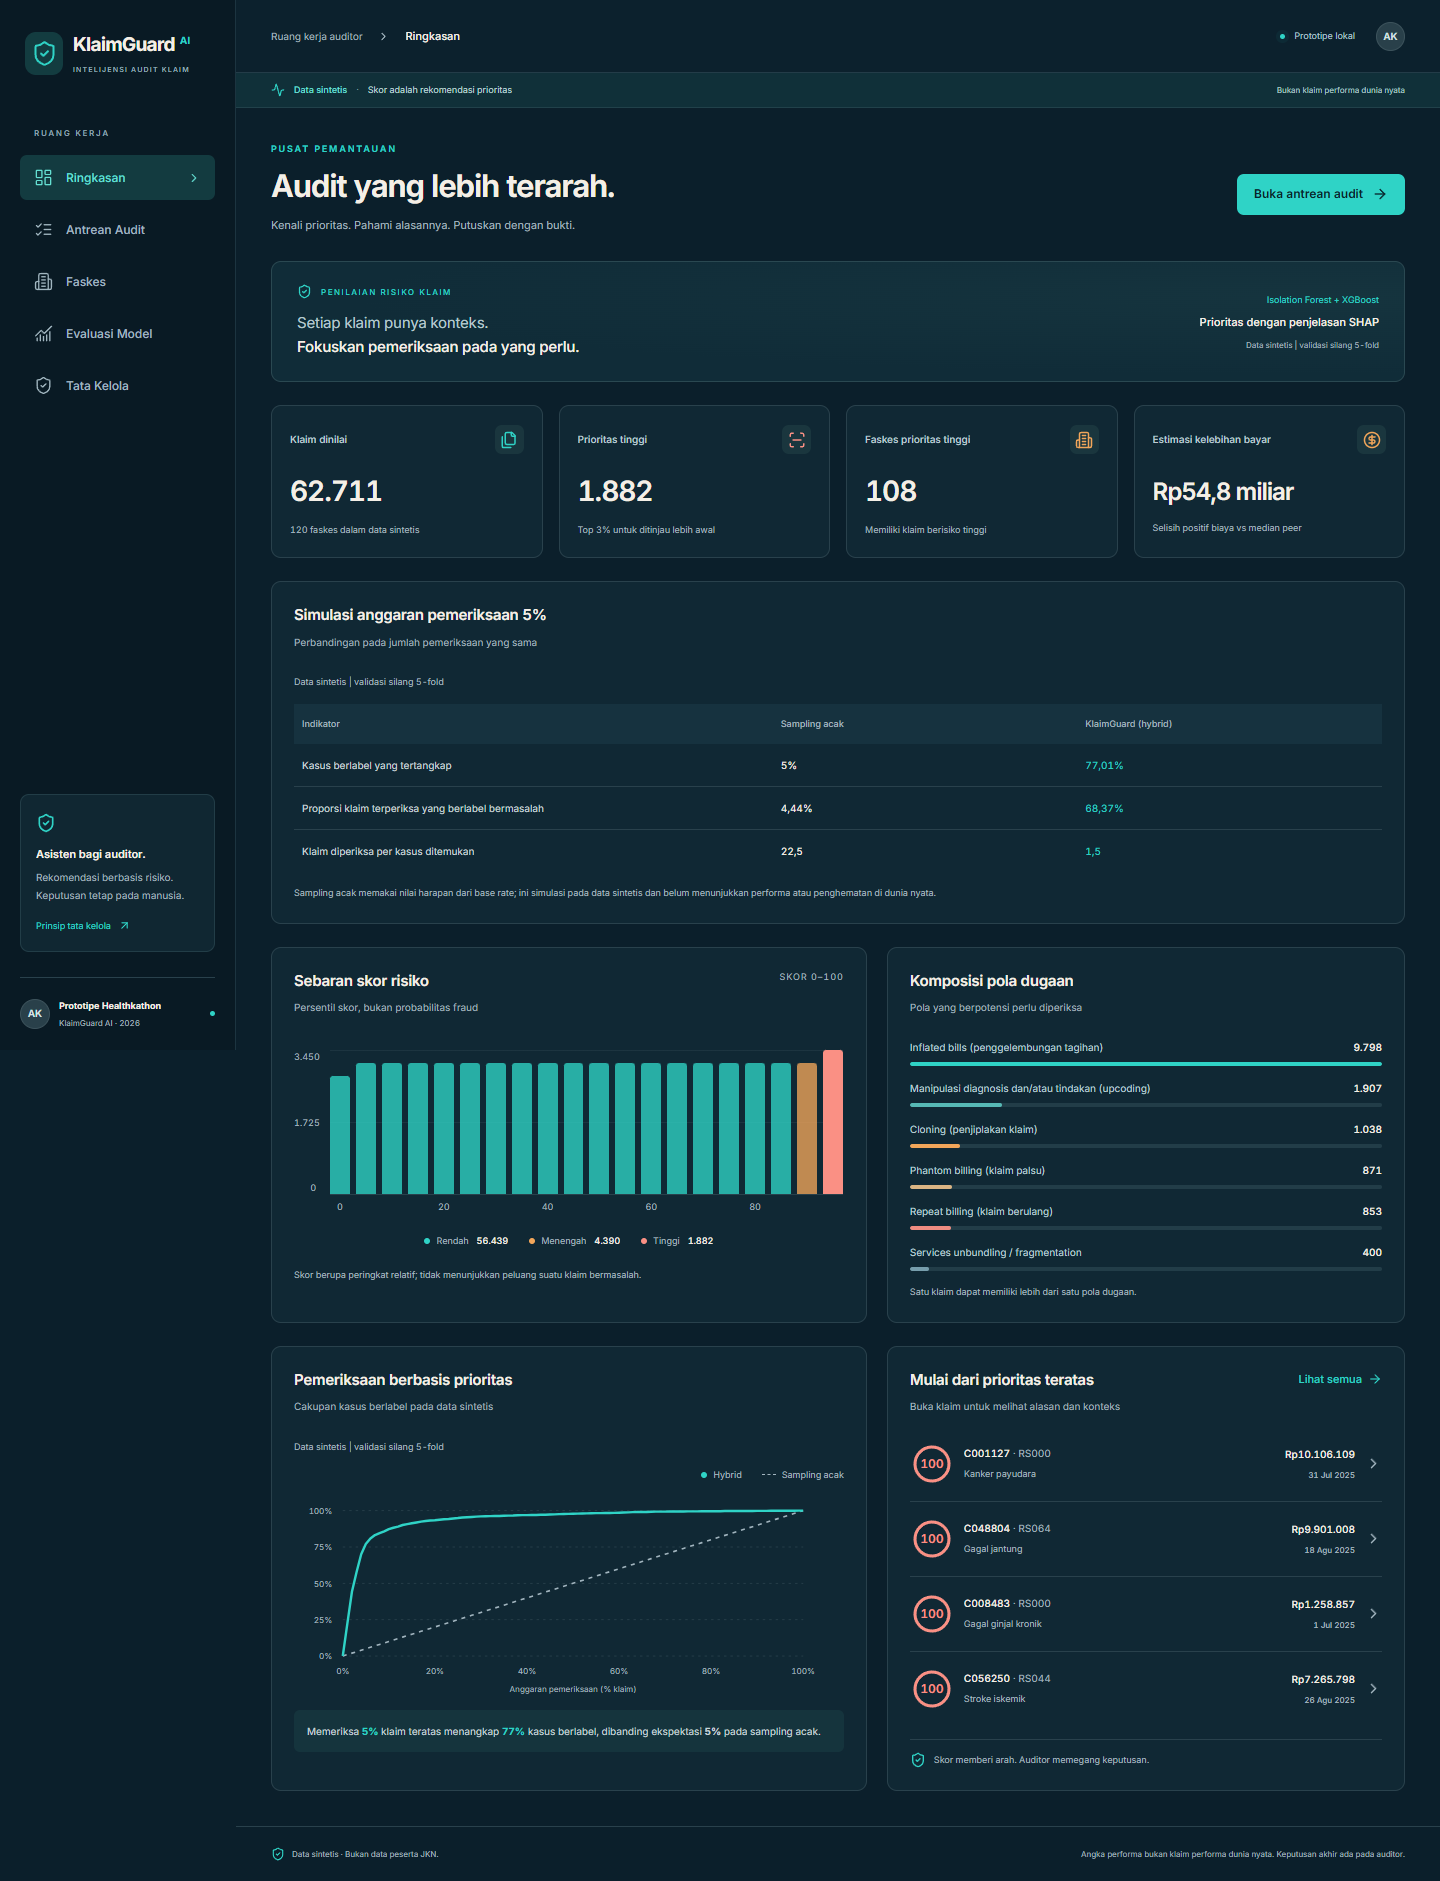
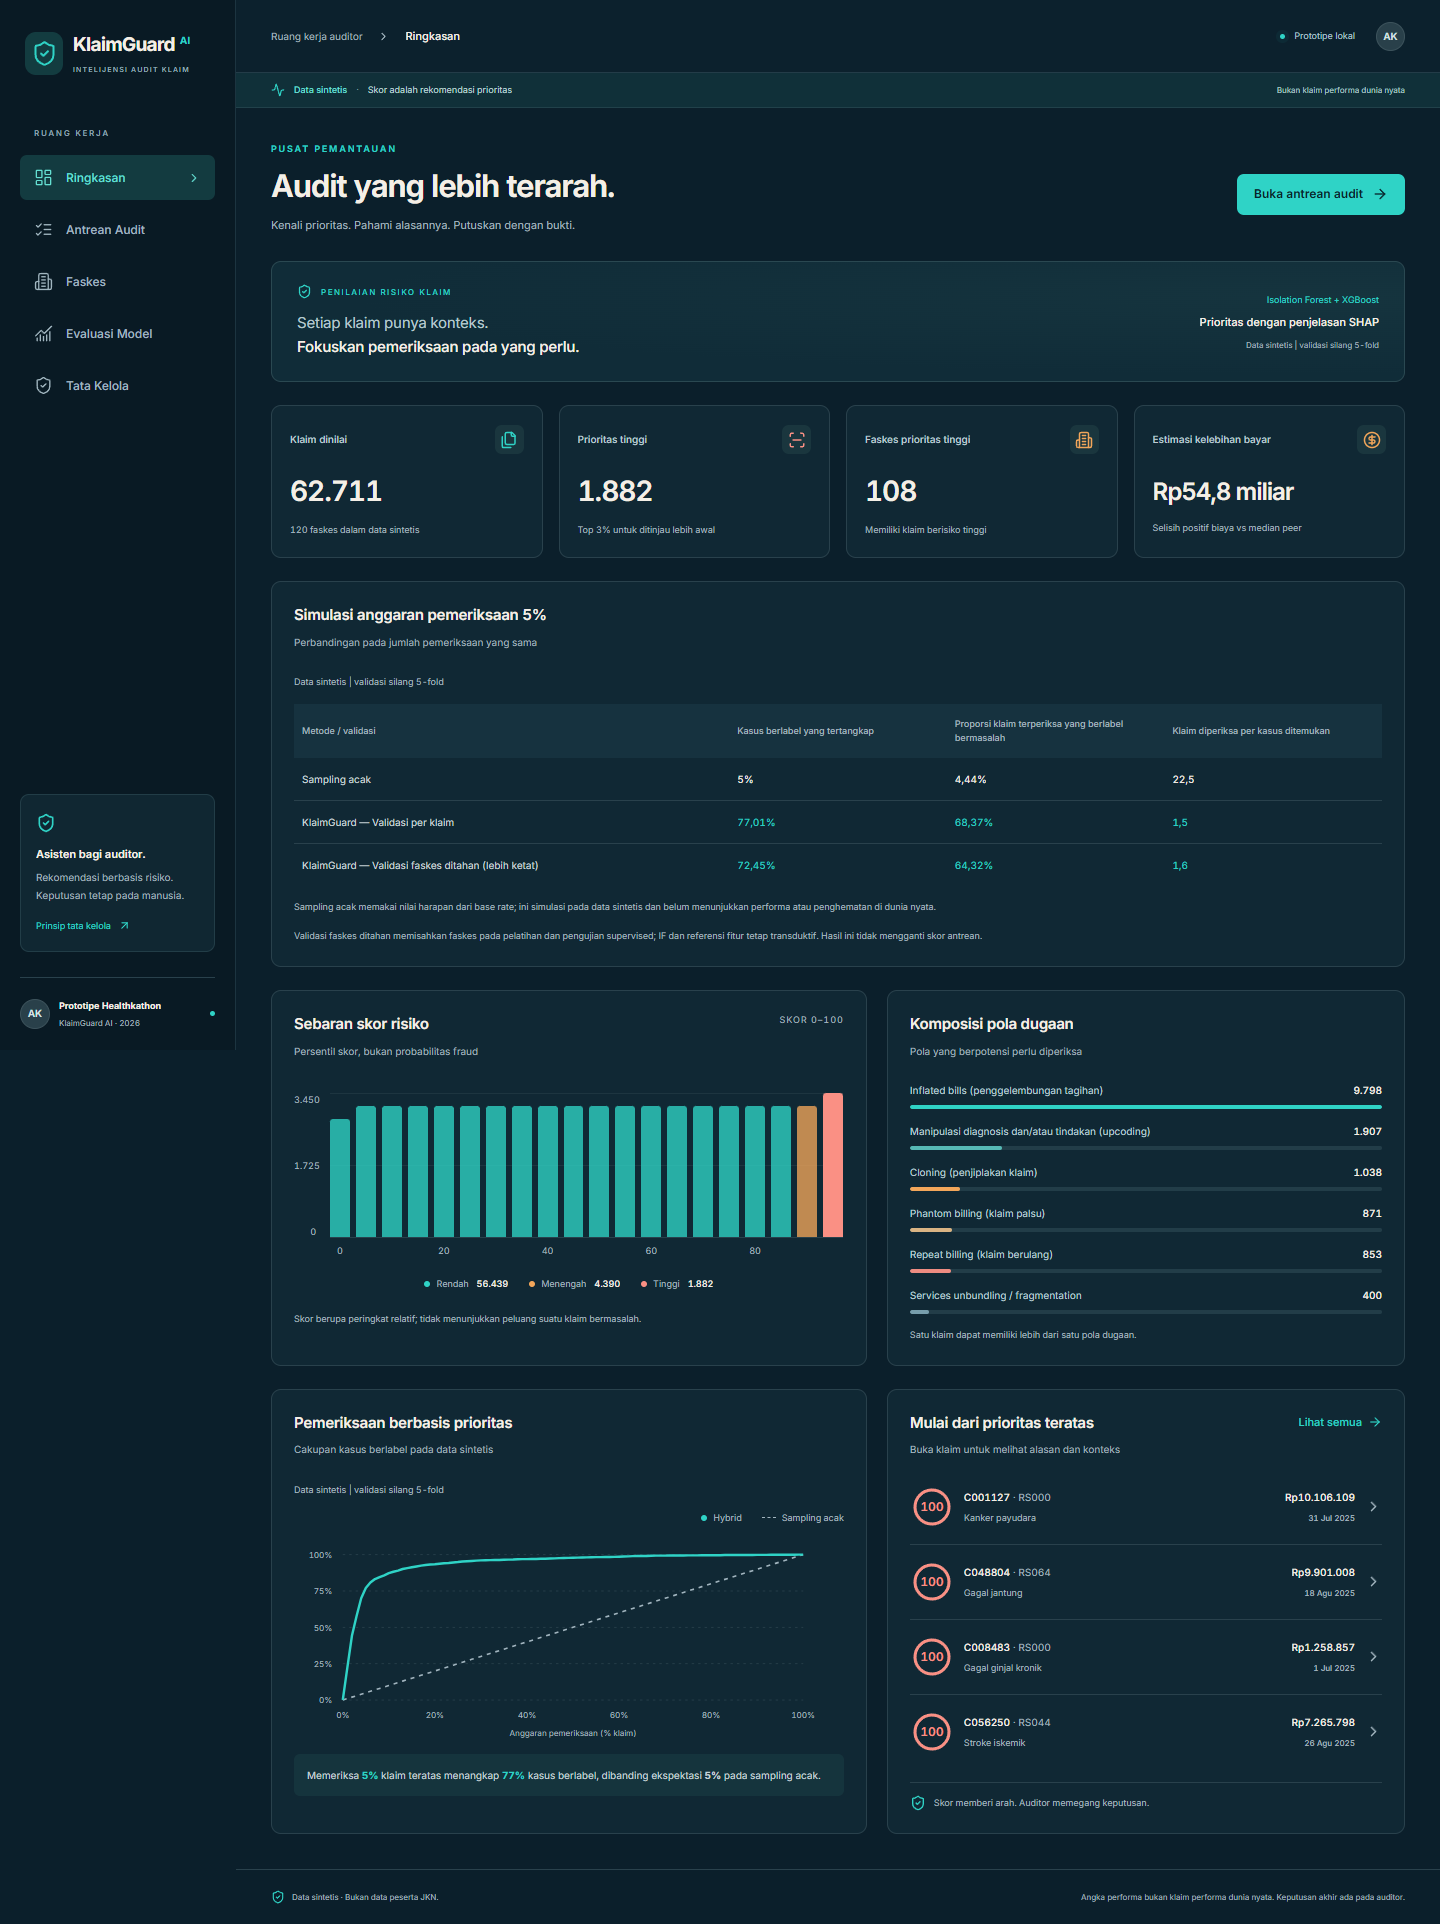
feat(web): compare claim and held-facility validation in budget simulation

diff --git a/web/src/styles.css b/web/src/styles.css
@@ -13,3 +13,4 @@
 @media(max-width:760px){.sidebar{transform:translateX(-100%);width:252px;transition:transform .2s;padding:28px 20px 0}.sidebar.open{transform:translateX(0)}.sidebar .brand{font-size:19px;margin-bottom:42px}.brand-symbol{width:38px}.brand-ai{font-size:10px}.brand small{font-size:7px}.nav-item{font-size:12px;padding:14px}.mobile-close{display:flex;position:absolute;right:8px;top:7px;color:var(--muted)}.app-main{margin-left:0}.nav-backdrop{position:fixed;inset:0;background:#010c17c9;z-index:29;border:0}.mobile-menu{display:flex;margin-left:-8px}.topbar{height:64px;padding:0 21px}.breadcrumb{gap:9px;font-size:9px}.breadcrumb>b{font-size:10px}.topbar-status{font-size:8px;gap:7px}.topbar-avatar{width:25px;height:25px;margin-left:2px}.evaluation-pill{font-size:0;padding:5px;margin-right:0}.evaluation-pill svg{width:15px;height:15px}.data-banner{padding:10px 21px;font-size:8px}.data-banner>span{gap:7px}.data-banner svg{width:12px}.page-heading h1{font-size:28px}.card-heading h2{font-size:14px}main{padding:27px 21px}.page-heading{display:block;margin-bottom:24px}.page-heading p{font-size:11px;max-width:450px;line-height:1.8;margin-top:12px}.page-heading>.button{margin-top:20px;padding:11px 14px;font-size:11px}.eyebrow{font-size:8px;letter-spacing:1.5px}.overview-intro{padding:21px;min-height:150px}.overview-intro p{font-size:16px}.metrics-grid{gap:12px}.metric{padding:17px}.metric-value{font-size:29px}.metric:last-child .metric-value{font-size:24px;margin-top:20px}.metric-label{font-size:10px;align-items:flex-start;line-height:1.6}.metric-icon{width:25px;height:25px;flex-shrink:0}.metric-icon svg{width:15px}.metric p{font-size:9px;line-height:1.8}.card{padding:20px}.queue-card{padding:0}.facility-ranking{padding-left:0;padding-right:0}main>*+*{margin-top:18px}.overview-charts,.overview-bottom{gap:18px}.overview-charts>.card,.overview-bottom>.card{margin:0}.card-heading{margin-bottom:22px}.histogram{height:180px;gap:11px}.hist-columns{gap:5px}.tier-summary{font-size:8px;gap:14px}.pattern-bars{gap:16px}.pattern-bar>div:first-child{font-size:10px}.chart-caption{font-size:9px}.lift-insight{font-size:10px}.top-claim b{font-size:10px}.top-claim>div>span{font-size:9px}.top-claim-cost{font-size:10px}.top-claim{padding:17px 0;gap:9px}.top-claim-cost small{font-size:8px}.top-claim .score{width:40px;height:40px}.top-claim .score b{font-size:11px}.human-note{font-size:9px}.filter-grid{grid-template-columns:repeat(2,minmax(0,1fr));gap:14px 12px}.filter-top h2{font-size:12px}.filters{padding:19px}.filters .text-link{font-size:9px}input,select{font-size:11px;min-height:40px}input[type=date]{font-size:10px}.queue-heading{padding:20px 18px}.queue-heading h2{font-size:13px}.queue-heading p{font-size:9px}.queue-heading .mini-label{font-size:7px}.queue-scroll{height:530px;max-height:70vh}.queue-footer{font-size:8px;padding:16px 18px}.facility-profile{padding:9px 2px}.facility-rank-header,.facility-row{padding-left:18px;padding-right:18px}.facility-id small{font-size:8px}.facility-metrics .metric:last-child .metric-value{font-size:22px!important}.evaluation-toggle{padding:17px 15px}.evaluation-toggle h2{font-size:10px}.evaluation-toggle p{font-size:9px}.evaluation-toggle>div{gap:10px}.evaluation-toggle>div>svg{width:19px}.evaluation-toggle{gap:10px}.model-cards{grid-template-columns:1fr;gap:12px}.model-card-head{flex-direction:row;align-items:center;font-size:12px}.model-cards .model-value{font-size:34px}.model-cards .model-value>span{display:inline-block;margin-left:10px;font-size:9px}.model-card .badge{font-size:8px}.model-card p{font-size:11px}.metrics-table{font-size:10px;min-width:610px}.metrics-table th,.metrics-table td{padding:14px 12px}.confusion-matrix{gap:10px}.confusion-matrix>div{padding:15px}.confusion-matrix span{font-size:9px;line-height:1.8}.confusion-matrix b{font-size:25px}.confusion-matrix small{font-size:8px}.notice{padding:13px;font-size:10px}.governance-hero{padding:25px 22px;display:block}.governance-emblem{width:72px;height:72px;margin-bottom:24px}.governance-hero h2{font-size:29px}.governance-hero p{font-size:11px}.governance-hero .eyebrow{font-size:7px;letter-spacing:1px}.governance-grid{grid-template-columns:1fr;gap:18px}.principle{padding:25px}.principle h2{font-size:21px}.principle>p{font-size:12px}.principle-detail p{font-size:11px}.drawer{border:0}.drawer-header{padding:20px 21px}.drawer-body{padding:24px 21px}.drawer-score{gap:19px}.drawer-score h3{font-size:16px}.drawer-footer{padding:14px 21px;font-size:8px}.decision-option{font-size:10px;padding:10px 7px}.detail-grid{gap:18px 12px}.detail-grid dd{font-size:10px}.drawer .notice{font-size:10px}.shap-axis{font-size:7px}.decision-section textarea{font-size:12px}.drawer-score .score-large{width:94px;height:94px}.app-footer{padding:20px 21px;font-size:8px;line-height:1.8}.project-tag b{font-size:10px}.project-tag small{font-size:8px}.sidebar-note h3{font-size:12px}.sidebar-note p{font-size:11px}.sidebar-note a{font-size:10px}}
 @media(max-width:370px){main{padding-left:16px;padding-right:16px}.metric{padding:14px 12px}.metric-label{font-size:9px}.metric-value{font-size:27px}.metric:last-child .metric-value{font-size:21px}.metric p{font-size:8px}.topbar-status>span:nth-last-child(2){display:none}.data-banner{font-size:7px;padding-left:16px;padding-right:16px}.page-heading h1{font-size:26px}}
 body .model-cards .model-value > .performance-value{font-size:inherit;font-weight:inherit;letter-spacing:inherit;margin:0;color:inherit}
+.budget-methods tbody th{width:40%}.budget-methods th,.budget-methods td{overflow-wrap:anywhere}.budget-methods thead th:first-child{width:40%}@media(max-width:760px){.budget-methods th,.budget-methods td{padding:12px 6px;font-size:9px}.budget-methods thead th{font-size:8px}}

diff --git a/web/src/BudgetSimulation.tsx b/web/src/BudgetSimulation.tsx
@@ -7,18 +7,20 @@ export default function BudgetSimulation() {
   const budget = 5
   const baseline = data.summary.dataset.fraud_rate
   const hybrid = data.report.at_budget[String(budget)]
+  const heldFacility = data.report.grouped_eval?.faskes_id.at_budget[String(budget)]
   if (!hybrid) return null
   const inverse = (rate: number) => rate > 0 ? number(1 / rate) : 'Tidak tersedia'
   const rows = [
-    ['Kasus berlabel yang tertangkap', percent(budget / 100, 2), percent(hybrid.recall.hybrid, 2)],
-    ['Proporsi klaim terperiksa yang berlabel bermasalah', percent(baseline, 2), percent(hybrid.precision.hybrid, 2)],
-    ['Klaim diperiksa per kasus ditemukan', inverse(baseline), inverse(hybrid.precision.hybrid)],
+    { label: 'Sampling acak', recall: budget / 100, precision: baseline },
+    { label: 'KlaimGuard — Validasi per klaim', recall: hybrid.recall.hybrid, precision: hybrid.precision.hybrid },
+    ...(heldFacility ? [{ label: 'KlaimGuard — Validasi faskes ditahan (lebih ketat)', recall: heldFacility.recall.hybrid, precision: heldFacility.precision.hybrid }] : []),
   ]
   return <Card title={`Simulasi anggaran pemeriksaan ${number(budget)}%`} subtitle="Perbandingan pada jumlah pemeriksaan yang sama" className="budget-simulation">
     <PerformanceLabel />
     <div className="table-scroll" role="region" aria-label="Simulasi anggaran pemeriksaan, dapat digulir" tabIndex={0}>
-      <table className="metrics-table budget-table"><thead><tr><th>Indikator</th><th>Sampling acak</th><th>KlaimGuard (hybrid)</th></tr></thead><tbody>{rows.map(([label, random, priority]) => <tr key={label}><th scope="row">{label}</th><td><PerformanceValue>{random}</PerformanceValue></td><td className="teal"><PerformanceValue>{priority}</PerformanceValue></td></tr>)}</tbody></table>
+      <table className="metrics-table budget-table budget-methods"><thead><tr><th>Metode / validasi</th><th>Kasus berlabel yang tertangkap</th><th>Proporsi klaim terperiksa yang berlabel bermasalah</th><th>Klaim diperiksa per kasus ditemukan</th></tr></thead><tbody>{rows.map(({ label, recall, precision }) => <tr key={label}><th scope="row">{label}</th>{[percent(recall, 2), percent(precision, 2), inverse(precision)].map((value, i) => <td key={i} className={label === 'Sampling acak' ? '' : 'teal'}><PerformanceValue>{value}</PerformanceValue></td>)}</tr>)}</tbody></table>
     </div>
     <p className="chart-caption">Sampling acak memakai nilai harapan dari base rate; ini simulasi pada data sintetis dan belum menunjukkan performa atau penghematan di dunia nyata.</p>
+    <p className="chart-caption">Validasi faskes ditahan memisahkan faskes pada pelatihan dan pengujian supervised; IF dan referensi fitur tetap transduktif. Hasil ini tidak mengganti skor antrean.</p>
   </Card>
 }

diff --git a/STATUS.md b/STATUS.md
@@ -1,6 +1,6 @@
 # STATUS — KlaimGuard AI
 
-Terakhir diperbarui: 25 Oktober 2026 (oleh agent pembangun; QA selesai, menunggu Gate C)
+Terakhir diperbarui: 25 Oktober 2026 (oleh agent pembangun; Gate C disetujui, persiapan repo lokal)
 Deadline: **1 November 2026** (target submit 31 Oktober)
 
 > Agent: perbarui file ini setelah setiap tahap (centang, tanggal, temuan, keputusan).
@@ -51,7 +51,7 @@ Catatan agent kedua (24 Oktober 2026): pekerjaan dibatasi pada `web/` dan bagian
 
 ### Prompt 3 — Deploy & QA (`docs/03_PROMPT_DEPLOY_VERCEL_QA.md`)
 - [x] QA lokal dengan data ML aktual (build bersih, lima rute, filter, panel detail, keputusan, CSV, mobile 390 px)
-- [ ] **GATE C: laporan QA siap, menunggu konfirmasi Abil; belum disetujui**
+- [x] **GATE C: disetujui Abil setelah tugas persiapan repo ini; push dan deploy akan dijalankan Abil sendiri**
 - [ ] Deploy Vercel (Root Directory = `web`), uji URL produksi
 
 Checkpoint 25 Oktober 2026 setelah persetujuan Gate A bersyarat:
@@ -61,6 +61,8 @@ Checkpoint 25 Oktober 2026 setelah persetujuan Gate A bersyarat:
 - Build produksi TypeScript/Vite lolos; **15 kelompok QA browser lolos, 0 error console/runtime tak terduga**. Lima rute desktop/mobile 390 px dan panel detail diperiksa; filter/pencarian/urut, keputusan persisten, CSV BOM/quoting/newline/antiformula, storage rusak/ditolak, error/retry/empty dan axe WCAG A/AA lolos. Maksimum 17 baris DOM saat menggeser tabel 3.000 baris; median frame 16,7 ms, p95 17,4 ms, maksimum 24,5 ms; pencarian 15 ms pada mesin lokal. Dua belas screenshot diambil ulang memakai data ML aktual.
 - Lighthouse 13.5.0, **satu run per skenario**: Ringkasan desktop **100/100/100**, Antrean desktop **100/100/100**, Ringkasan mobile **88/100/100**, Antrean mobile **89/100/100** (Performance/Accessibility/Best Practices). LCP mobile 3,775/3,698 detik; mobile belum mencapai 90. Kondisi throttling dan hasil lengkap di `web/QA.md` serta `web/qa-report.json`. Tidak memilih hasil terbaik dari pengulangan.
 - Temuan QA: overflow mobile dari label aksesibilitas diperbaiki. Matriks evaluasi hanya subset 3.000 ekspor; budget 5% mencakup 3.136 klaim sehingga nol FN/TN pada subset bukan bukti cakupan seluruh dataset. UI menjelaskan keterbatasan ini. Tidak ada tuning, perubahan dataset/generator, penggantian skor antrean atau deployment. **Berhenti di Gate C.**
+
+Tambahan setelah persetujuan Gate C (25 Oktober 2026): kartu simulasi Ringkasan kini mempunyai satu baris sampling acak dan dua baris KlaimGuard: validasi per klaim dan validasi faskes ditahan (lebih ketat), semuanya dari JSON. Faskes ditahan: recall 72,45%, precision 64,32%, sekitar 1,6 klaim per kasus; skor antrean tidak diganti. Build dan 15 kelompok QA lolos, termasuk perhitungan semua sel kartu dan screenshot desktop/mobile yang diperbarui. Optimasi lazy dan kesiapan repo sedang dikerjakan. Tidak push atau deploy oleh agent.
 
 ## Jadwal target
 | Tanggal | Pekerjaan |
